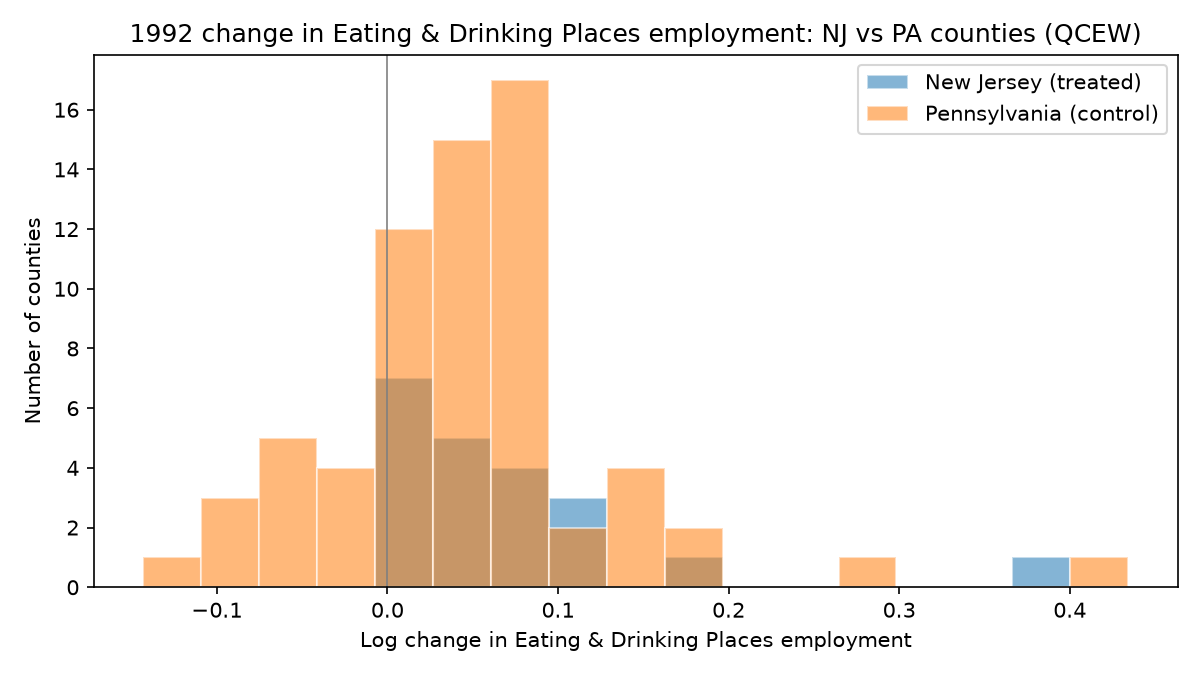
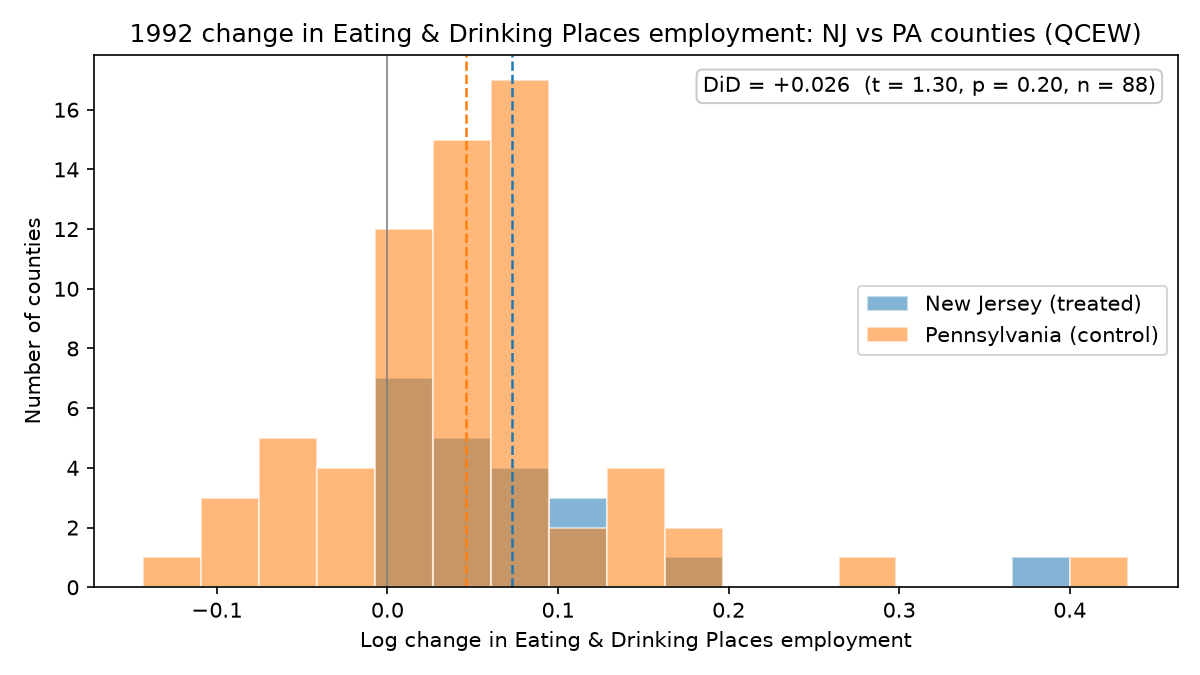
feat: add robustness checks to the extension and improve the employment-change figure

Changed region(s): [[0.5858, 0.0933, 0.9867, 0.1867], [0.7092, 0.4356, 0.9867, 0.5289]]

diff --git a/code/02_extension_qcew.py b/code/02_extension_qcew.py
@@ -26,6 +26,8 @@ OUT_TAB.mkdir(parents=True, exist_ok=True)
 OUT_FIG.mkdir(parents=True, exist_ok=True)
 
 ZIP = RAW / "sic_1992_qtrly_by_area.zip"
+# 稳健性检验：Card & Krueger (1994) 电话调查覆盖的 7 个东部 PA 县，作为更可比的对照组
+EAST_PA_FIPS = {"42017", "42029", "42069", "42077", "42079", "42091", "42095"}
 KEEP_COLS = ["own_code", "industry_code", "agglvl_code", "year", "qtr",
              "disclosure_code", "qtrly_estabs_count",
              "month1_emplvl", "month2_emplvl", "month3_emplvl",
@@ -80,6 +82,56 @@ def build_did(df):
     return d
 
 
+def _wide(df, outcome, full_quarter):
+    """把 县×季度 面板转成 县级 before/after 对数变化。
+
+    outcome: "employment"(就业) 或 "establishments"(机构数)。
+    full_quarter: True 用全季度(1+2+3月 / 10+11+12月)，False 用 2-3月 / 11-12月。
+    """
+    q1 = df[df["qtr"] == 1].set_index("fips")
+    q4 = df[df["qtr"] == 4].set_index("fips")
+    if outcome == "employment":
+        if full_quarter:
+            before = (q1["month1_emplvl"] + q1["month2_emplvl"] + q1["month3_emplvl"]) / 3.0
+            after = (q4["month1_emplvl"] + q4["month2_emplvl"] + q4["month3_emplvl"]) / 3.0
+        else:
+            before = (q1["month2_emplvl"] + q1["month3_emplvl"]) / 2.0
+            after = (q4["month2_emplvl"] + q4["month3_emplvl"]) / 2.0
+    else:  # establishments（机构数本身就是季度值）
+        before = q1["qtrly_estabs_count"]
+        after = q4["qtrly_estabs_count"]
+    d = pd.DataFrame({"fips": q1.index, "state": q1["state"],
+                      "before": before, "after": after}).dropna()
+    d["dlog"] = np.log(d["after"]) - np.log(d["before"])
+    d["nj"] = (d["state"] == "34").astype(int)
+    return d
+
+
+def _did(d):
+    """对县级数据跑 DiD 回归，返回 (系数, 标准误, t, p, n)。"""
+    X = sm.add_constant(d[["nj"]])
+    fit = sm.OLS(d["dlog"], X).fit()
+    return fit.params["nj"], fit.bse["nj"], fit.tvalues["nj"], fit.pvalues["nj"], int(fit.nobs)
+
+
+def robustness(df):
+    """稳健性检验：换对照组 / 换窗口 / 换结果变量。"""
+    rows = []
+    d = _wide(df, "employment", full_quarter=False)
+    rows.append(("1. 主设定：就业 2-3月 vs 11-12月，全 PA", *_did(d)))
+
+    d2 = d[d["fips"].str[:2].eq("34") | d["fips"].isin(EAST_PA_FIPS)].copy()
+    rows.append(("2. 对照组换成东部 PA（7 县）", *_did(d2)))
+
+    d3 = _wide(df, "employment", full_quarter=True)
+    rows.append(("3. 全季度窗口 Q1 vs Q4", *_did(d3)))
+
+    d4 = _wide(df, "establishments", full_quarter=False)
+    rows.append(("4. 结果变量换成机构数", *_did(d4)))
+
+    return pd.DataFrame(rows, columns=["稳健性检验", "DiD系数", "标准误", "t值", "p值", "样本量"])
+
+
 def main():
     county_files = load_county_files()
     print(f"县文件：NJ {sum(1 for f,_ in county_files if f.startswith('34'))} 个，"
@@ -117,7 +169,7 @@ def main():
     print(f"  系数={fit.params['nj']:+.4f}  SE={fit.bse['nj']:.4f}  "
           f"t={fit.tvalues['nj']:.3f}  p={fit.pvalues['nj']:.3f}  n={int(fit.nobs)}")
 
-    # 就业变化分布图
+    # 就业变化分布图（叠加各组均值参考线与 DiD 标注）
     fig, ax = plt.subplots(figsize=(8, 4.5))
     bins = np.linspace(d["dlog"].min() - 0.02, d["dlog"].max() + 0.02, 18)
     ax.hist(d.loc[d.nj == 1, "dlog"], bins=bins, alpha=0.55, color="tab:blue",
@@ -125,6 +177,14 @@ def main():
     ax.hist(d.loc[d.nj == 0, "dlog"], bins=bins, alpha=0.55, color="tab:orange",
             label="Pennsylvania (control)", edgecolor="white")
     ax.axvline(0, color="gray", linewidth=0.8)
+    # 各组均值参考线（虚线）
+    ax.axvline(dlog_nj, color="tab:blue", linestyle="--", linewidth=1.2)
+    ax.axvline(dlog_pa, color="tab:orange", linestyle="--", linewidth=1.2)
+    # DiD 估计量与显著性标注
+    ax.text(0.98, 0.96,
+            f"DiD = {did:+.3f}  (t = {fit.tvalues['nj']:.2f}, p = {fit.pvalues['nj']:.2f}, n = {int(fit.nobs)})",
+            transform=ax.transAxes, ha="right", va="top",
+            bbox=dict(boxstyle="round", fc="white", ec="0.8"))
     ax.set(xlabel="Log change in Eating & Drinking Places employment",
            ylabel="Number of counties",
            title="1992 change in Eating & Drinking Places employment: NJ vs PA counties (QCEW)")
@@ -133,6 +193,12 @@ def main():
     fig.savefig(OUT_FIG / "extension_employment_change.png", dpi=150)
     plt.close(fig)
     print("扩展图已保存 →", OUT_FIG / "extension_employment_change.png")
+
+    # 稳健性检验
+    rob = robustness(df)
+    rob.to_csv(OUT_TAB / "extension_robustness.csv")
+    print("\n稳健性检验已保存 →", OUT_TAB / "extension_robustness.csv")
+    print(rob.round(4).to_string(index=False))
 
 
 if __name__ == "__main__":
